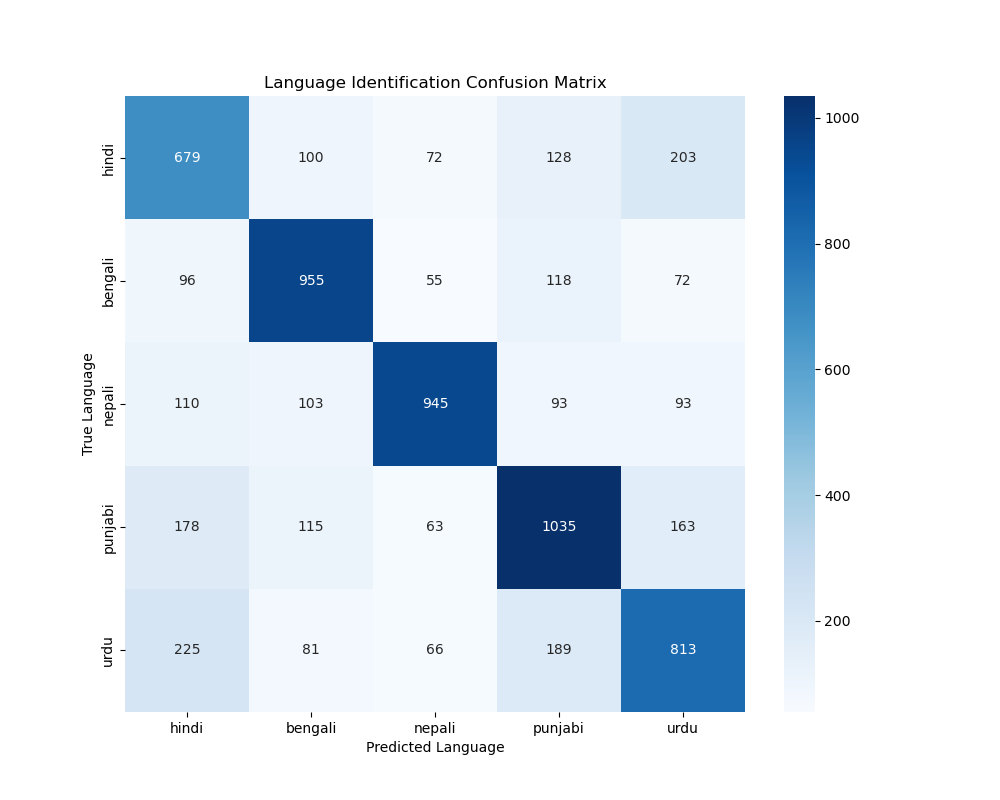
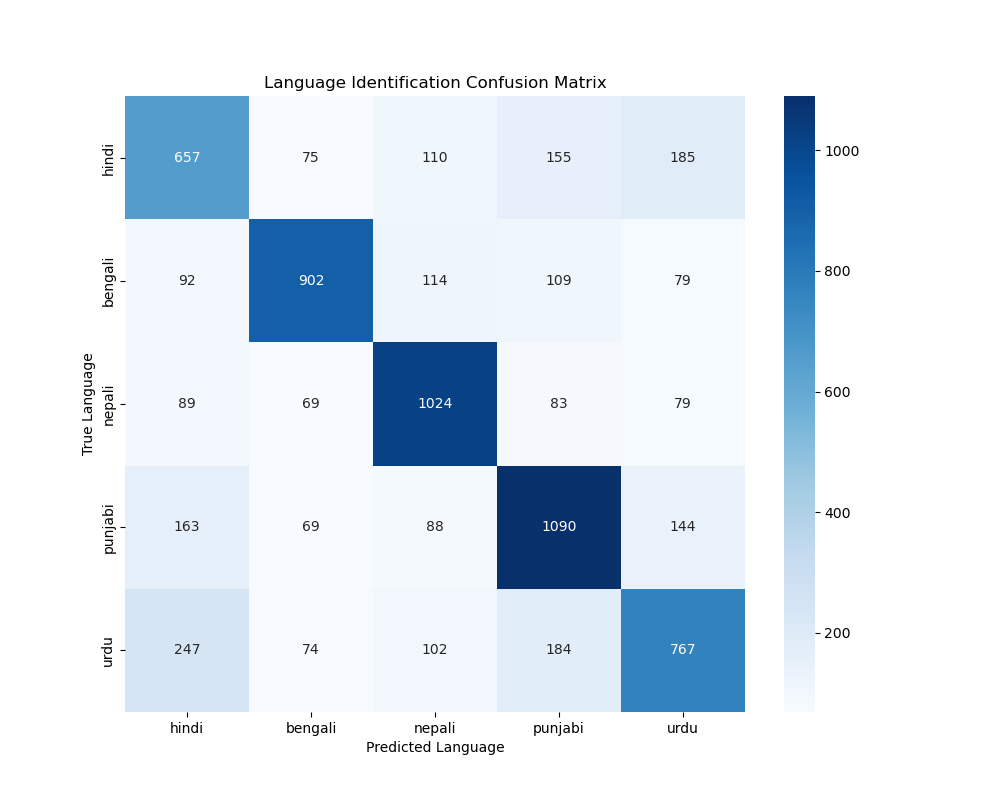
Update 5s evaluation results (including train, test, and valid splits)

diff --git a/src/stitch_dataset.py b/src/stitch_dataset.py
@@ -15,6 +15,7 @@ import numpy as np
 TARGET_SR = 16000
 TARGET_DURATION = 30.0
 TARGET_FRAMES = int(TARGET_SR * TARGET_DURATION)
+MAX_CLIPS = None  # Set to 1 if you want exactly 30s total, or 30 for thirty clips
 
 def read_metadata(csv_path):
     metadata = []
@@ -76,6 +77,9 @@ def process_split(split, data_dir):
         clip_counter = 0
         
         for idx, row in enumerate(rows):
+            if MAX_CLIPS is not None and clip_counter >= MAX_CLIPS:
+                break
+                
             orig_filepath = backup_dir / row['filepath']
             if not orig_filepath.exists():
                 continue
@@ -90,6 +94,9 @@ def process_split(split, data_dir):
                 buffer_frames += len(y)
                 
                 while buffer_frames >= TARGET_FRAMES:
+                    if MAX_CLIPS is not None and clip_counter >= MAX_CLIPS:
+                        break
+                        
                     concat_y = np.concatenate(buffer)
                     stitched_y = concat_y[:TARGET_FRAMES]
                     

diff --git a/src/stitch_dataset_5s.py b/src/stitch_dataset_5s.py
@@ -31,8 +31,8 @@ def write_metadata(csv_path, metadata):
 def process_split(split, data_dir):
     print(f"\n--- Processing 5-second chunks for split: {split.upper()} ---")
     split_dir = Path(data_dir) / split
-    audio_30s_dir = split_dir / "audio"
-    meta_30s_path = split_dir / "metadata.csv"
+    audio_30s_dir = split_dir / "audio_30s"
+    meta_30s_path = split_dir / "metadata_30s.csv"
     
     audio_5s_dir = split_dir / "audio_5s"
     meta_5s_path = split_dir / "metadata_5s.csv"